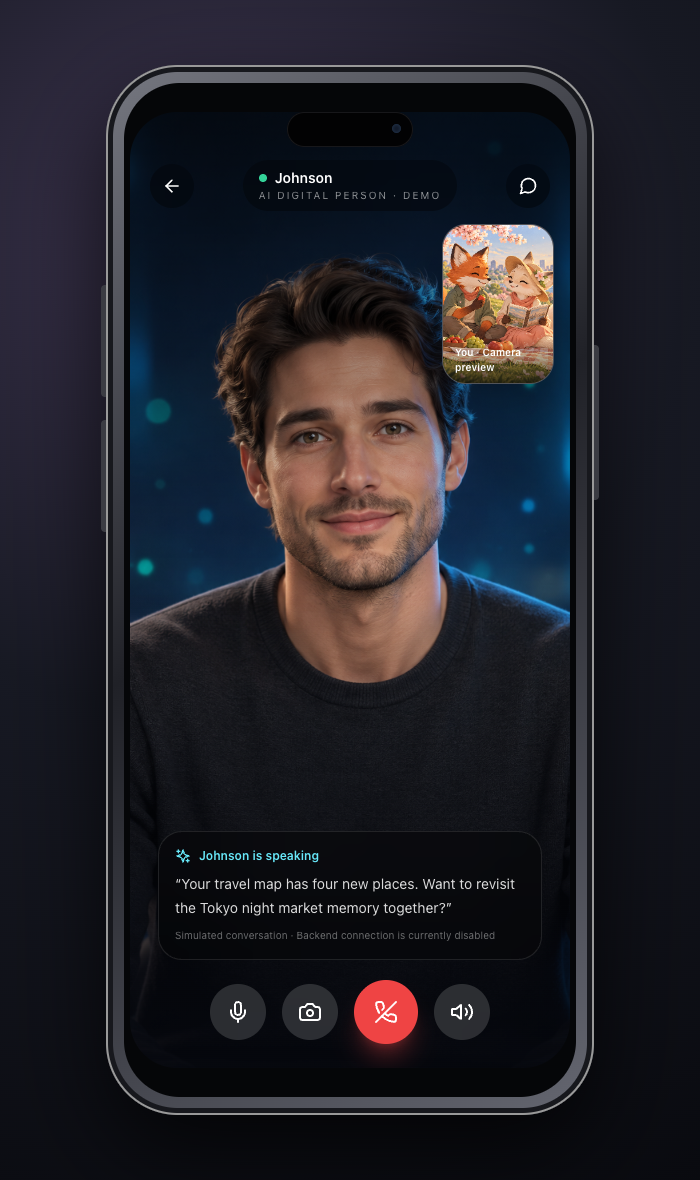
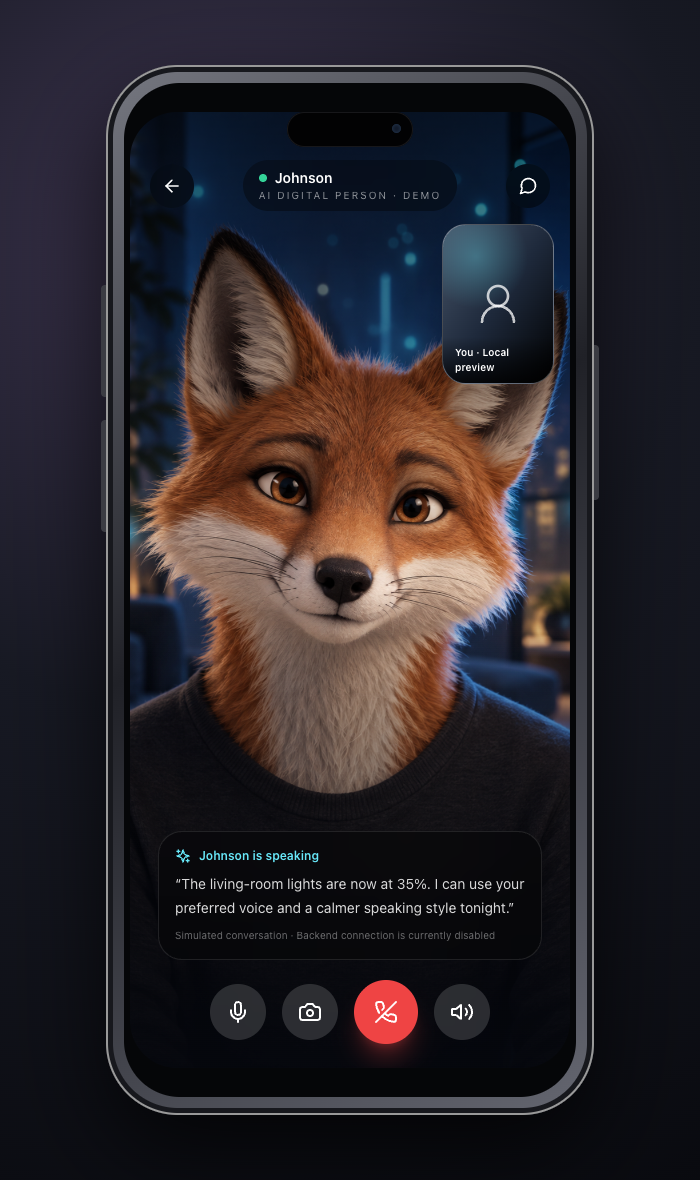
feat: refine Johnson fox companion demo

Changed region(s): [[0.18, 0.0915, 0.84, 0.6712], [0.24, 0.7322, 0.75, 0.7932]]

diff --git a/frontend/src/pages/JohnsonCall.tsx b/frontend/src/pages/JohnsonCall.tsx
@@ -1,5 +1,5 @@
 import { useState } from 'react'
-import { ArrowLeft, Camera, CameraOff, MessageCircle, Mic, MicOff, PhoneOff, Sparkles, Volume2 } from 'lucide-react'
+import { ArrowLeft, Camera, CameraOff, MessageCircle, Mic, MicOff, PhoneOff, Sparkles, UserRound, Volume2 } from 'lucide-react'
 import { useNavigate } from 'react-router-dom'
 
 export default function JohnsonCall() {
@@ -8,7 +8,7 @@ export default function JohnsonCall() {
   const [camera, setCamera] = useState(true)
 
   return <div className="relative h-[100dvh] overflow-hidden bg-[#07101d] text-white">
-    <img src="/demo/johnson-avatar.png" alt="Johnson, a fictional AI digital person" className="absolute inset-0 h-full w-full object-cover object-center" />
+    <img src="/demo/johnson-avatar.png" alt="Johnson, a fictional fox AI digital person" className="absolute inset-0 h-full w-full object-cover object-center" />
     <div className="absolute inset-0 bg-gradient-to-b from-black/55 via-transparent to-[#05070d]/95" />
     <div className="absolute inset-x-0 top-0 flex items-center justify-between px-5" style={{ paddingTop: 'max(env(safe-area-inset-top, 0px), 48px)' }}>
       <button onClick={() => navigate(-1)} className="flex h-11 w-11 items-center justify-center rounded-full bg-black/35 backdrop-blur-xl"><ArrowLeft className="h-5 w-5" /></button>
@@ -16,15 +16,16 @@ export default function JohnsonCall() {
       <button className="flex h-11 w-11 items-center justify-center rounded-full bg-black/35 backdrop-blur-xl"><MessageCircle className="h-5 w-5" /></button>
     </div>
 
-    {camera && <div className="absolute right-4 top-28 h-40 w-28 overflow-hidden rounded-3xl border border-white/25 bg-[#171922] shadow-2xl">
-      <img src="/demo/memories/spring-picnic.png" alt="Simulated local camera preview" className="h-full w-full object-cover" />
-      <div className="absolute inset-x-0 bottom-0 bg-gradient-to-t from-black/70 px-3 py-2 text-[10px] font-semibold">You · Camera preview</div>
+    {camera && <div className="absolute right-4 top-28 flex h-40 w-28 flex-col items-center justify-center overflow-hidden rounded-3xl border border-white/25 bg-gradient-to-br from-slate-600 via-slate-800 to-black shadow-2xl">
+      <div className="absolute inset-0 opacity-30" style={{ backgroundImage: 'radial-gradient(circle at 30% 20%, #67e8f9 0, transparent 35%)' }} />
+      <UserRound className="relative h-12 w-12 text-white/75" strokeWidth={1.3} />
+      <div className="absolute inset-x-0 bottom-0 bg-gradient-to-t from-black/80 px-3 py-2 text-[10px] font-semibold">You · Local preview</div>
     </div>}
 
     <div className="absolute inset-x-0 bottom-0 px-5 pb-[calc(env(safe-area-inset-bottom,0px)+24px)]">
       <div className="mx-auto mb-5 max-w-sm rounded-3xl border border-white/10 bg-black/35 p-4 backdrop-blur-2xl">
         <div className="mb-2 flex items-center gap-2 text-xs font-semibold text-cyan-300"><Sparkles className="h-4 w-4" />Johnson is speaking</div>
-        <p className="text-sm leading-6 text-white/85">“Your travel map has four new places. Want to revisit the Tokyo night market memory together?”</p>
+        <p className="text-sm leading-6 text-white/85">“The living-room lights are now at 35%. I can use your preferred voice and a calmer speaking style tonight.”</p>
         <p className="mt-2 text-[10px] text-white/40">Simulated conversation · Backend connection is currently disabled</p>
       </div>
       <div className="flex items-center justify-center gap-4">

diff --git a/README.md b/README.md
@@ -33,11 +33,15 @@ Remember turns a camera roll into a browsable story. Add a date, place, note, an
 - Supports private password access, JWT sessions, local uploads, thumbnails, and PWA installation.
 - Includes an optional showcase dataset with twelve fictional memories across North America, Europe, North Africa, Iceland, and Japan.
 - Supports multi-photo memories; the featured Tokyo entry uses a full-screen portrait cover followed by four gallery images.
-- Presents Johnson as the dedicated AI digital-person experience, with a camera preview and familiar video-call controls.
+- Presents Johnson as a fictional fox digital person, with a local camera preview and familiar video-call controls.
+- Lets Johnson act as a natural-language smart-home companion for lights, climate, scenes, and other connected devices.
+- Supports voice-tone imitation for an approved reference voice, plus switchable personalities, tone, pacing, and speaking styles.
 
 ## Johnson demo mode
 
-Johnson's backend is currently disabled, so the repository ships a clearly labeled local simulation for product presentation. It recreates the intended live-call experience—digital-person video, local camera preview, captions, microphone and camera toggles, speaker control, and end-call action—without claiming that a live AI connection is active.
+Johnson's backend is currently disabled, so the repository ships a clearly labeled local simulation for product presentation. It recreates the intended live-call experience—fox digital-person video, anonymous local camera preview, captions, microphone and camera toggles, speaker control, and end-call action—without claiming that a live AI connection is active.
+
+The product direction also includes permission-based smart-home control, reference-voice imitation, personality presets, and configurable tone and speaking style. Voice imitation is intended only for voices the user owns or has explicit permission to reproduce.
 
 ## Run locally
 
